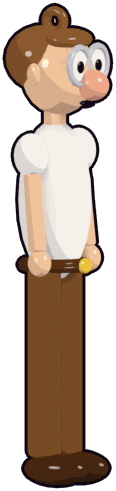
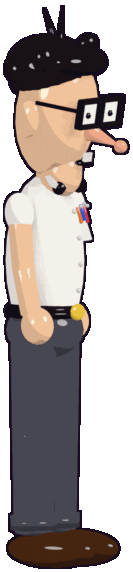
New loading screen, cinematic intro, updated hero portraits
- Loading screen: night sky, crooked villa silhouette, logo, toast chased
  by the purple tentacle, real progress bar and rotating tips.
- Intro: letterbox bars and vignette, logo title card for the prologue and
  a chapter card for the lab with typewriter text, slow camera drift in
  real-time 3D; no 3D hints during the intro.
- Rooms in real-time 3D fade in only once their scene is loaded; the
  prologue waits briefly for its panorama.
- Title screen figures and HUD portraits of Bernard and Hoagie rendered
  from the restyled rigs.

diff --git a/js/vorspann.js b/js/vorspann.js
@@ -1,0 +1,141 @@
+'use strict';
+// ============================================================
+//  Tentakel-Toast – Ladebildschirm und Kino-Vorspann (js/vorspann.js)
+//  Ladebildschirm: Nachthimmel mit Mond, die krumme Villa als Scherenschnitt mit flackernden Fenstern, das Logo,
+//  ein Toast auf der Flucht vor dem Lila Tentakel, ein echter Fortschrittsbalken (Schriften und Bilder, js/draw.js:
+//  TT_LADEN) und wechselnde Tipps.
+//  Intro: Kinobalken fahren ein, eine Titelkarte mit Logo und Schreibmaschinen-Text eröffnet die Geschichte, die
+//  Einblendungen („Fünf Jahre nach …“) erscheinen als Kino-Untertitel statt als Kasten.
+// ============================================================
+const LADE_TIPPS = [
+  'Tipp: Zieh in der Lobby am Pendel der Standuhr …',
+  'Tipp: Im Echtzeit-3D läufst du mit WASD und springst mit der Leertaste.',
+  'Tipp: Rechtsklick zeigt alle Aktionen für ein Ding.',
+  'Tipp: Gegenstände reisen per Chrono-Klo durch die Zeit.',
+  'Tipp: Taste H gibt einen Hinweis, wenn du feststeckst.',
+  'Wusstest du? Der Hamster heißt Ed. Er ist nicht zu verwechseln mit Onkel Ed.',
+];
+function ladeFortschritt() {
+  const L = typeof TT_LADEN !== 'undefined' ? TT_LADEN : null;
+  const bilder = L && L.n ? L.ok / L.n : 0.5, schrift = G.schriftOk ? 1 : Math.min(0.9, G.t / 2600);
+  return Math.max(0, Math.min(1, schrift * 0.35 + bilder * 0.65));
+}
+function villaSilhouette(c, t, x0, boden, s) {   // krumm wie in Day of the Tentacle: nichts steht gerade
+  const sil = '#160828', P2 = pts => P(c, pts.map((v, i) => i % 2 ? boden - v * s : x0 + v * s), sil, 0);
+  P2([0, 0, 6, 150, -4, 170, 120, 182, 250, 168, 262, 150, 256, 0]);   // Haupthaus, leicht verzogen
+  P2([-14, 168, 126, 236, 270, 164]);   // Dach, schief
+  P2([160, 190, 168, 300, 196, 296, 190, 186]);   // Schornstein, gekippt
+  P2([30, 170, 26, 262, 88, 270, 92, 172]);   // Turm
+  P2([18, 258, 56, 352, 100, 266]);   // Turmspitze, verbogen
+  L(c, [x0 + 56 * s, boden - 352 * s, x0 + 62 * s, boden - 372 * s], 2, sil);
+  const fenster = [[30, 60], [80, 64], [150, 58], [200, 62], [44, 118], [110, 122], [180, 116], [52, 210], [64, 230]];
+  for (const [i, [fx, fy]] of fenster.entries()) {
+    const fl = 0.65 + 0.35 * Math.sin(t * 0.004 + i * 2.3) * Math.sin(t * 0.0017 + i);
+    const w = 22 * s, h = 26 * s, x = x0 + fx * s, y = boden - fy * s - h, kipp = Math.sin(i * 1.7) * 3 * s;
+    if (!c.isPix) glowAt(c, x + w / 2, y + h / 2, 30 * s, '#ffc860', 0.18 * fl);
+    P(c, [x + kipp, y, x + w + kipp, y + 2, x + w, y + h, x, y + h - 1], `rgba(255,${200 + Math.round(30 * fl)},96,${0.75 + 0.25 * fl})`, 0);
+    L(c, [x + w / 2 + kipp / 2, y + 1, x + w / 2, y + h], 1.5, sil); L(c, [x + kipp / 2, y + h / 2, x + w + kipp / 2, y + h / 2], 1.5, sil);
+  }
+}
+function toastFigur(c, x, y, sq, rot) {
+  c.save(); c.translate(x, y); c.scale(sq, 2 - sq); c.rotate(rot);
+  S(c, '#e8b060', 3, () => { c.moveTo(-28, 26); c.lineTo(-28, -10); c.quadraticCurveTo(-34, -34, -14, -34); c.quadraticCurveTo(0, -44, 14, -34); c.quadraticCurveTo(34, -34, 28, -10); c.lineTo(28, 26); c.closePath(); });
+  R(c, -20, -20, 40, 40, '#f6dca0', 0, 6);
+  E(c, -8, -6, 5, 6, '#ffffff', 1.5); E(c, 8, -6, 5, 6, '#ffffff', 1.5); E(c, -6, -5, 2.4, 3, '#1b1020', 0); E(c, 10, -5, 2.4, 3, '#1b1020', 0);   // schaut panisch nach hinten
+  E(c, 1, 10, 5, 4, '#7a2222', 1.5);   // „AAAH!“
+  c.restore();
+}
+function tentakelFigur(c, x, y, sq, t) {
+  c.save(); c.translate(x, y); c.scale(sq, 2 - sq);
+  S(c, '#8e44c9', 3, () => { c.moveTo(-20, 0); c.quadraticCurveTo(-26, -60, -6, -86); c.quadraticCurveTo(10, -100, 20, -80); c.quadraticCurveTo(26, -40, 22, 0); c.closePath(); });
+  for (let i = 0; i < 4; i++) E(c, 14, -14 - i * 16, 4, 3.4, '#c79bec', 1.2);
+  E(c, 2, -70, 13, 7, '#5b2589', 2);   // Lippen
+  L(c, [-12, -84, 2, -78], 3.5, '#1b1020'); L(c, [8, -80, 18, -86], 3.5, '#1b1020');   // böse Brauen
+  E(c, -6, -76, 4, 4.5, '#ffffff', 1.2); E(c, 12, -79, 4, 4.5, '#ffffff', 1.2); E(c, -4, -76, 2, 2.4, '#1b1020', 0); E(c, 14, -79, 2, 2.4, '#1b1020', 0);
+  c.restore();
+}
+// Ladebildschirm (js/engine.js ruft ihn auf, solange G.screen === 'loading')
+function drawLadebild() {
+  const c = cx, t = G.t;
+  c.fillStyle = grad(c, 0, 0, 0, H, [[0, '#090320'], [0.55, '#2a0f4a'], [0.85, '#5a1e62'], [1, '#2a0f3a']]); c.fillRect(0, 0, W, H);
+  for (let i = 0; i < 60; i++) { const a = 0.35 + 0.65 * Math.abs(Math.sin(t * 0.0012 + i * 1.7)); E(c, (i * 173) % W, (i * 97) % 330, 1.3, 1.3, `rgba(255,255,255,${a})`, 0); }
+  if (!c.isPix) glowAt(c, 792, 120, 150, '#ffe8c0', 0.22);
+  E(c, 792, 120, 52, 52, '#fff0c4', 3, 0, '#d8b070');
+  for (const [x, y, r] of [[778, 104, 10], [812, 136, 8], [796, 142, 5]]) E(c, x, y, r, r * 0.8, 'rgba(226,196,140,0.55)', 0);
+  P(c, [0, H, 0, 470, 160, 446, 340, 462, 520, 440, 700, 452, 960, 432, 960, H], '#1a0a2c', 0);   // Hügel
+  villaSilhouette(c, t, 590, 470, 1.05);
+  // Logo (wenn schon geladen), sonst Schriftzug
+  if (!c.isPix && typeof LOGO_IMG !== 'undefined' && imgOk(LOGO_IMG)) {
+    const w = 520, h = w * LOGO_IMG.naturalHeight / LOGO_IMG.naturalWidth, k = Math.min(1, t / 600), sc = 0.8 + 0.2 * (1 - Math.pow(1 - k, 3)) + Math.sin(t * 0.0021) * 0.01;
+    c.save(); c.globalAlpha = k; c.translate(W / 2 - 110, 110); c.scale(sc, sc); c.drawImage(LOGO_IMG, -w / 2, -h / 2, w, h); c.restore();
+  } else txt(c, 'TENTAKEL-TOAST', W / 2 - 110, 120, '400 52px "Titan One", sans-serif', '#ffd23a', 'center', 8, '#1b1020');
+  // Verfolgungsjagd: der Toast flieht, der Lila Tentakel hüpft hinterher (Schleife über den Bildschirm)
+  const per = 4200, q = (t % per) / per, bx = -80 + q * (W + 240), boden = 520;
+  const hopT = Math.abs(Math.sin(t * 0.009)), hopL = Math.abs(Math.sin(t * 0.0075 + 0.8));
+  E(c, bx, boden + 4, 30 - hopT * 10, 6, 'rgba(0,0,0,0.35)', 0);
+  toastFigur(c, bx, boden - 26 - hopT * 34, 1 + (1 - hopT) * 0.08, -0.15 + Math.sin(t * 0.02) * 0.1);
+  E(c, bx - 150, boden + 4, 28 - hopL * 8, 6, 'rgba(0,0,0,0.35)', 0);
+  tentakelFigur(c, bx - 150, boden - hopL * 40, 1 + (1 - hopL) * 0.1, t);
+  if (q > 0.1 && q < 0.9) txt(c, Math.floor(t / 900) % 2 ? 'AAAH!' : 'HILFE!', bx + 4, boden - 96 - hopT * 34, '400 18px "Titan One", sans-serif', '#ffffff', 'center', 4, '#1b1020');
+  // Fortschrittsbalken und Tipp
+  const p = ladeFortschritt(), bw = 360, bxx = W / 2 - bw / 2, by = 556;
+  R(c, bxx - 4, by - 4, bw + 8, 26, 'rgba(10,4,20,0.7)', 3, 13, '#f1d6a0');
+  if (p > 0.01) R(c, bxx, by, Math.max(18, bw * p), 18, grad(c, bxx, 0, bxx + bw, 0, [[0, '#ffd23a'], [1, '#ff8a2a']]), 0, 9);
+  txt(c, `Lade … ${Math.round(p * 100)} %`, W / 2, by + 14, '800 13px "Baloo 2", sans-serif', '#1b1020', 'center');
+  const tip = LADE_TIPPS[Math.floor(t / 2600) % LADE_TIPPS.length];
+  txt(c, tip, W / 2, by - 16, '700 15px "Baloo 2", sans-serif', 'rgba(255,240,200,0.9)', 'center', 3, '#1b1020');
+}
+
+// ---------- Kino-Vorspann fürs Intro ----------
+let kinoK = 0;
+function drawKino() {
+  const ziel = G.inIntro && G.screen === 'game' ? 1 : 0;
+  kinoK += (ziel - kinoK) * 0.08;
+  if (kinoK < 0.01) return;
+  const h = 46 * kinoK, VB = typeof VH !== 'undefined' ? VH : SH;   // VB: Höhe der Szene (moderne Ansicht: ganzer Bildschirm)
+  cx.save(); cx.fillStyle = '#05020a'; cx.fillRect(0, 0, W, h); cx.fillRect(0, VB - h, W, h);
+  if (!cx.isPix) {   // weiche Vignette wie im Kino
+    const vg = cx.createRadialGradient(W / 2, VB / 2, VB * 0.35, W / 2, VB / 2, W * 0.62);
+    vg.addColorStop(0, 'rgba(5,2,10,0)'); vg.addColorStop(1, `rgba(5,2,10,${0.45 * kinoK})`);
+    cx.fillStyle = vg; cx.fillRect(0, 0, W, VB);
+  }
+  cx.restore();
+  const k = G.titelKarte; if (!k) return;
+  const e = (G.t - k.t0) / k.dauer;
+  if (e < 0 || e > 1) return;
+  const ein = Math.min(1, e * 5), aus = Math.min(1, (1 - e) * 6), a = Math.min(ein, aus);
+  cx.save(); cx.globalAlpha = a * (k.logo ? 0.82 : 0.6); cx.fillStyle = '#0a0414'; cx.fillRect(0, h, W, VB - 2 * h); cx.restore();
+  cx.save(); cx.globalAlpha = a;
+  const my = VB / 2;
+  if (!k.logo) {   // Kapitelkarte: kleine Überschrift, Zierlinien, Text per Schreibmaschine
+    const s = T(k.text), n = Math.floor(Math.max(0, e - 0.1) / 0.5 * s.length);
+    txt(cx, k.kapitel || '', W / 2, my - 34, '800 18px "Baloo 2", sans-serif', '#ffd23a', 'center', 3, '#1b1020');
+    L(cx, [W / 2 - 240, my - 18, W / 2 + 240, my - 18], 2, 'rgba(255,210,58,0.55)');
+    txt(cx, s.slice(0, n), W / 2, my + 22, '400 34px "Titan One", sans-serif', '#ffe8b0', 'center', 6, '#1b1020');
+    L(cx, [W / 2 - 240, my + 46, W / 2 + 240, my + 46], 2, 'rgba(255,210,58,0.55)');
+    cx.restore(); return;
+  }
+  if (!cx.isPix && typeof LOGO_IMG !== 'undefined' && imgOk(LOGO_IMG)) {
+    const w = 560, lh = w * LOGO_IMG.naturalHeight / LOGO_IMG.naturalWidth, z = 0.7 + 0.3 * (1 - Math.pow(1 - ein, 3)) + e * 0.06;
+    cx.save(); cx.translate(W / 2, my - 40); cx.scale(z, z); cx.rotate(Math.sin(G.t * 0.002) * 0.015); cx.drawImage(LOGO_IMG, -w / 2, -lh / 2, w, lh); cx.restore();
+  } else txt(cx, 'TENTAKEL-TOAST', W / 2, my - 30, '400 60px "Titan One", sans-serif', '#ffd23a', 'center', 8, '#1b1020');
+  const s = T(k.text), n = Math.floor(Math.max(0, e - 0.18) / 0.45 * s.length);   // Schreibmaschine
+  txt(cx, s.slice(0, n), W / 2, my + 92, '400 26px "Titan One", sans-serif', '#ffe8b0', 'center', 5, '#1b1020');
+  cx.restore();
+}
+{
+  const signOrig = drawSign;   // Kinobalken unter die Sprechblasen legen: drawSign kommt direkt vor Bark und Sprechblasen
+  drawSign = function () { signOrig(); drawKino(); };
+  const capOrig = drawCaption;   // im Intro: Kino-Untertitel statt Kasten
+  drawCaption = function (y) {
+    if (!G.caption || !G.inIntro) return capOrig(y);
+    if (G._capText !== G.caption) { G._capText = G.caption; G._capT = G.t; }
+    const s = T(G.caption), e = Math.min(1, (G.t - G._capT) / 450);
+    cx.save(); cx.globalAlpha = e;
+    const yy = (typeof VH !== 'undefined' ? VH : SH) - 46 * kinoK - 18;
+    L(cx, [W / 2 - 220, yy - 34, W / 2 - 40, yy - 34], 2, 'rgba(255,210,58,0.6)'); L(cx, [W / 2 + 40, yy - 34, W / 2 + 220, yy - 34], 2, 'rgba(255,210,58,0.6)');
+    E(cx, W / 2, yy - 34, 4, 4, '#ffd23a', 0);
+    txt(cx, s, W / 2, yy, '400 24px "Titan One", sans-serif', '#ffe8b0', 'center', 5, '#1b1020');
+    cx.restore();
+  };
+}

diff --git a/index.html b/index.html
@@ -60,26 +60,27 @@
 </div>
 <noscript>Tentakel-Toast braucht JavaScript. Bitte aktiviere es, um zu spielen.</noscript>
 <script type="importmap">{"imports":{"three":"./vendor/three/three.module.js","three/addons/":"./vendor/three/addons/"}}</script>
-<script>var TT_VER = '13e';   // bei jedem Update erhöhen: alle Skripte, Bilder und 3D-Modelle laden dann frisch statt aus dem Browser-Cache</script>
-<script src="js/draw.js?v=13e"></script>
-<script src="js/figuren3d.js?v=13e"></script>
-<script src="js/pixel.js?v=13e"></script>
-<script src="js/audio.js?v=13e"></script>
-<script src="js/lang.js?v=13e"></script>
-<script src="js/rooms.js?v=13e"></script>
-<script src="js/engine.js?v=13e"></script>
-<script src="js/story.js?v=13e"></script>
-<script src="js/gaeste.js?v=13e"></script>
-<script src="js/gaeste2.js?v=13e"></script>
-<script src="js/zak.js?v=13e"></script>
-<script src="js/villa.js?v=13e"></script>
-<script src="js/altbau-daten.js?v=13e"></script>
-<script src="js/altbau.js?v=13e"></script>
-<script src="js/uhrwerk.js?v=13e"></script>
-<script src="js/kostuem.js?v=13e"></script>
-<script src="js/cameos.js?v=13e"></script>
-<script src="js/mimik.js?v=13e"></script>
-<script src="js/prolog.js?v=13e"></script>
-<script src="js/echt3d.js?v=13e"></script>
+<script>var TT_VER = '13j';   // bei jedem Update erhöhen: alle Skripte, Bilder und 3D-Modelle laden dann frisch statt aus dem Browser-Cache</script>
+<script src="js/draw.js?v=13j"></script>
+<script src="js/figuren3d.js?v=13j"></script>
+<script src="js/pixel.js?v=13j"></script>
+<script src="js/audio.js?v=13j"></script>
+<script src="js/lang.js?v=13j"></script>
+<script src="js/rooms.js?v=13j"></script>
+<script src="js/engine.js?v=13j"></script>
+<script src="js/story.js?v=13j"></script>
+<script src="js/gaeste.js?v=13j"></script>
+<script src="js/gaeste2.js?v=13j"></script>
+<script src="js/zak.js?v=13j"></script>
+<script src="js/villa.js?v=13j"></script>
+<script src="js/altbau-daten.js?v=13j"></script>
+<script src="js/altbau.js?v=13j"></script>
+<script src="js/uhrwerk.js?v=13j"></script>
+<script src="js/vorspann.js?v=13j"></script>
+<script src="js/kostuem.js?v=13j"></script>
+<script src="js/cameos.js?v=13j"></script>
+<script src="js/mimik.js?v=13j"></script>
+<script src="js/prolog.js?v=13j"></script>
+<script src="js/echt3d.js?v=13j"></script>
 </body>
 </html>

diff --git a/js/echt3d.js b/js/echt3d.js
@@ -55,6 +55,24 @@ const ECHT3D_TEILE = {
     return { rot, sx, sy };
   },
 };
+// Raumwechsel im Echtzeit-3D: erst einblenden, wenn die 3D-Szene geladen ist (höchstens 6 s) – kein dunkles Bild mit Figuren
+function echt3dWarten(id) {
+  if (!G.settings.echt3d || G.settings.retro || !ECHT3D.rooms[id] || ECHT3D.failed) return Promise.resolve();
+  echt3dLoad();
+  const t0 = performance.now();
+  return new Promise(fertig => {
+    const pruefen = () => {
+      const m = ECHT3D.mod;
+      if (ECHT3D.failed || performance.now() - t0 > 6000 || (m && m.ready && (m.hasRoom(id) || m.failed(id)))) return fertig();
+      setTimeout(pruefen, 60);
+    };
+    pruefen();
+  });
+}
+{
+  const warmOhne3D = warmRoom;
+  warmRoom = async function (roomId) { await warmOhne3D(roomId); await echt3dWarten(roomId); };
+}
 function echt3dEiDa(id) { const e = typeof EGGS !== 'undefined' && EGGS[id]; return !!e && (!e.when || e.when()); }
 // Gezeichnete Überlagerungen, die im Echtzeit-3D ein echtes Modell haben, dort nicht mehr malen (Klickflächen bleiben)
 function echt3dHatModell(raum, key) { return !!(ECHT3D.mod && ECHT3D.mod.hatRequisit && echt3dOn(ROOMS[raum]) && ECHT3D.mod.hatRequisit(raum, key)); }
@@ -414,6 +432,7 @@ function drawEcht3dParkour() {
   setInterval(() => {
     if (G.screen !== 'game' || !G.state) { tasten.clear(); letzterRaum = null; echt3dVirtualStick = { x: 0, y: 0, aktiv: false }; return; }
     const raum = viewRoomId(), drei = aktiv();
+    if (G.inIntro) return;   // im Vorspann keine Hinweise und keine Steuerung
     if (drei && raum !== letzterRaum) {
       if (KURS[raum]) note(KURS[raum]);
       else if (!hinweisDirekt) { hinweisDirekt = true; note('Echtzeit-3D: WASD oder linker Stick laufen, Leertaste/A springt, E benutzt das Nächste. Ziehen dreht die Kamera um dich.'); }

diff --git a/js/engine.js b/js/engine.js
@@ -4040,7 +4040,8 @@ function drawScreen() {
   else if (G.screen === 'toaster') { drawToaster(); if (!cx.isPix) drawBloom(0.2, H); }
   else if (G.screen === 'rock') { drawRock(); if (!cx.isPix) drawBloom(0.25, H); }
   else if (G.screen === 'game') { if (modernUI()) { drawSceneModern(); if (!G.photoMode) drawHUD(); } else { drawScene(); drawUI(); } if (!G.photoMode) drawFly(); if (G.menu) drawMenu(); }
-  else {   // Ladebildschirm: hüpfender Toast mit Tentakel-Schatten
+  else if (typeof drawLadebild === 'function') drawLadebild();   // Ladebildschirm (js/vorspann.js)
+  else {   // Ladebildschirm, solange js/vorspann.js noch nicht da ist: hüpfender Toast
     cx.fillStyle = grad(cx, 0, 0, 0, H, [[0, '#0c0420'], [1, '#2a0f4a']]); cx.fillRect(0, 0, W, H);
     const t = G.t, y = H / 2 - 20 - Math.abs(Math.sin(t * 0.006)) * 26, sq = 1 + Math.max(0, Math.cos(t * 0.012)) * 0.06;
     E(cx, W / 2, H / 2 + 34, 34 - Math.abs(Math.sin(t * 0.006)) * 10, 7, 'rgba(0,0,0,0.35)', 0);
@@ -4110,6 +4111,10 @@ async function boot() {
       new Promise(r => setTimeout(r, 3000)),
     ]);
   } catch (e) { /* Fallback-Schrift */ }
+  G.schriftOk = true;
+  // Titelbild-Grafiken abwarten (höchstens 4 s), und den Ladebildschirm mindestens kurz zeigen
+  await Promise.race([Promise.all([LOGO_IMG, ...Object.values(TENT_IMG)].map(im => imgOk(im) ? 0 : new Promise(r => { im.addEventListener('load', r); im.addEventListener('error', r); }))), new Promise(r => setTimeout(r, 4000))]);
+  const seitStart = performance.now(); if (seitStart < 1600) await new Promise(r => setTimeout(r, 1600 - seitStart));
   for (const k in bgCache) delete bgCache[k];
   loadSettings(); loadAch();
   G.saved = loadSave(); G.hasSaves = anySave();

diff --git a/js/prolog.js b/js/prolog.js
@@ -80,17 +80,19 @@ function drawProlog(c, t) {
     drawTentSprite(c, TENT_IMG.lila, lx, ly, th * 1.18 * pulse * a + th * (1 - a), true);
   } else drawTentSprite(c, TENT_IMG.green, lx, ly, th, true, 'hue-rotate(165deg) saturate(1.15)', drink * 0.55);
   c.restore();
-  // Kino-Balken
-  c.fillStyle = '#08030e'; c.fillRect(0, 0, W, 24); c.fillRect(0, SH - 24, W, 24);
+  // Kino-Balken zeichnet jetzt js/vorspann.js (drawKino) für den ganzen Vorspann
 }
 async function PROLOG() {
-  if (G.fast || G.settings.retro || !G.state || !imgOk(PROLOG_IMG)) return;
+  if (G.fast || G.settings.retro || !G.state) return;
+  if (!imgOk(PROLOG_IMG)) await new Promise(r => { const t0 = performance.now(), p = () => imgOk(PROLOG_IMG) || performance.now() - t0 > 4000 ? r() : setTimeout(p, 80); p(); });   // Panorama noch unterwegs: kurz warten
+  if (!imgOk(PROLOG_IMG)) return;
   G.inIntro = true;
   G.prolog = { t0: G.t + 400, panMs: 10000, sludgeT: 0, drinkT: 0, armsT: 0, zoomT: 0 };
   const keep = G.viewRoom; G.viewRoom = 'prolog'; markVisit('prolog'); music();
   try {
+    G.titelKarte = { t0: G.t, dauer: 4400, text: 'Wie alles begann ...', logo: true };   // Kino-Titelkarte mit Logo (js/vorspann.js)
     await fadeTo(0, 900);
-    G.caption = 'Wie alles begann ...'; await wait(2600); G.caption = null;
+    await wait(3500); G.titelKarte = null;
     await wait(Math.max(0, G.prolog.t0 + G.prolog.panMs - G.t));
     G.prolog.zoomT = G.t; await wait(2700);
     Sound.play('lab'); Sound.sfx('pour'); G.prolog.sludgeT = G.t; await wait(1500);

diff --git a/js/draw.js b/js/draw.js
@@ -1085,9 +1085,14 @@ function drawStatue(c) {
 // ---------- Portraits (Köpfe in den Charakter-Buttons) ----------
 const PORTRAIT = { bernard: [8, -186, 0.86], hoagie: [8, -154, 0.92], laverne: [8, -176, 0.82] };
 // Lädt ein gerendertes Bild; bricht das Laden ab (z. B. weil viele Bilder gleichzeitig kommen), wird es noch zweimal versucht
+const TT_LADEN = { n: 0, ok: 0 };   // Ladefortschritt für den Ladebildschirm (js/vorspann.js)
 function loadImg(src, tries = 3) {
   const im = new Image();
-  im.onerror = () => { if (--tries > 0) setTimeout(() => { im.src = `${src}?r=${tries}`; }, 700); };
+  TT_LADEN.n++;
+  let gezaehlt = false;
+  const fertig = () => { if (!gezaehlt) { gezaehlt = true; TT_LADEN.ok++; } };
+  im.addEventListener('load', fertig);
+  im.onerror = () => { if (--tries > 0) setTimeout(() => { im.src = `${src}?r=${tries}`; }, 700); else fertig(); };
   im.src = typeof TT_VER !== 'undefined' && !/^(data:|blob:|https?:)/.test(src) ? `${src}${src.includes('?') ? '&' : '?'}v=${TT_VER}` : src;   // Versions-Anhang: nach Updates kein altes Bild aus dem Cache
   return im;
 }

diff --git a/js/echt3d-szene.js b/js/echt3d-szene.js
@@ -438,6 +438,8 @@ function kameraFahren(R, t, actors) {
   for (const a of actors) { const m = a.mimik; if (m && m.kind === 'schreck') schreck = Math.max(schreck, 1 - Math.min(1, Math.max(0, (t - m.t0) / 700))); }
   if (schreck > 0) cam.position.addScaledVector(_fw, -0.09 * schreck).addScaledVector(_rt, Math.sin(t * 0.09) * 0.02 * schreck);
   cam.position.addScaledVector(_rt, Math.sin(t * 0.00019 + R.phase) * 0.011).addScaledVector(_up, Math.sin(t * 0.00013 + R.phase * 2) * 0.008);   // Parallax-Schwung im Stand
+  if (typeof G !== 'undefined' && G.inIntro) cam.position.addScaledVector(_rt, Math.sin(t * 0.00021) * 0.3).addScaledVector(_up, 0.05 + Math.sin(t * 0.00016) * 0.05);   // Vorspann: langsame Kinofahrt
+
   // freie Kamera: 360° um den Raum, dazu neigen und zoomen – um einen Zielpunkt in der Raummitte
   const o = R.orbit;
   if (o && (o.zurueck || Math.abs(o.yaw) > 1e-4 || Math.abs(o.pitch) > 1e-4 || Math.abs(o.dist) > 1e-4)) {

diff --git a/js/story.js b/js/story.js
@@ -1051,8 +1051,10 @@ const ARRIVALS = {
 async function INTRO() {
   G.inIntro = true;
   fl().kloH = fl().kloL = 1;   // im Labor stehen drei Chrono-Klos (js/kostuem.js)
+  await warmRoom(me().room);   // im Echtzeit-3D erst das Labor laden, dann einblenden
+  G.titelKarte = { t0: G.t, dauer: 4600, text: 'Fünf Jahre nach dem großen Tentakel-Tag ...', kapitel: 'Kapitel 1' };   // Kapitelkarte (js/vorspann.js)
   await fadeTo(0, 700);
-  G.caption = 'Fünf Jahre nach dem großen Tentakel-Tag ...'; await wait(2800); G.caption = null;
+  await wait(3900); G.titelKarte = null;
   await say('drfred', 'ENDLICH! Mein Gut-O-Mat ist fertig!');
   await say('drfred', 'Ein Toast daraus, und selbst der bösartigste Schurke wird lieb und nett!');
   await say('bernard', 'Es ist ein... Toaster, Dr. Fred.');

diff --git a/art/blender/helden_rig_bilder.py b/art/blender/helden_rig_bilder.py
@@ -1,0 +1,43 @@
+# Titelbild-Figuren und HUD-Porträts aus den umgestalteten Rigs (bernard_schick.py, hoagie_schick.py) rendern
+# (in Blender, vorher REPO und optional WHO setzen):
+#   REPO = r'C:/.../Tentakel-Toast'; WHO = ['bernard', 'hoagie']; exec(open(REPO + '/art/blender/helden_rig_bilder.py').read())
+# Ganzfigur = das Ruhebild aus figur_frames.py (art/render/<name>/idle.png), Porträt = Kopf mit geschlossenem und
+# offenem Mund über die RigCam. Schreibt nach art/render/helden/ – danach im Repo-Ordner:  python art/blender/helden_post.py
+import bpy, math, os, shutil
+
+WHO = globals().get('WHO') or ['bernard', 'hoagie']
+OUT = REPO + '/art/render/helden/'
+os.makedirs(OUT, exist_ok=True)
+# Szene, Kopfmitte (m), Bildausschnitt (m), Mund, Wurzel (fürs Porträt fast frontal zur Kamera gedreht)
+CFG = {'bernard': ('Rig3D', 2.02, 0.86, 'RB_Mund', 'BRig'), 'hoagie': ('Rig3D_Hoagie', 1.5, 0.78, 'RH_Mund', 'HRig'), 'laverne': ('Rig3D_Laverne', 1.66, 0.72, 'RL_Mund', 'LRig')}
+win = bpy.context.window
+prev = win.scene
+for name in WHO:
+    sn, kz, sc_m, mund, wurzel = CFG[name]
+    rig = bpy.data.objects[wurzel]
+    yaw0 = rig.rotation_euler[2]
+    SC = bpy.data.scenes[sn]
+    win.scene = SC
+    cam = SC.camera
+    alt = (cam.location.copy(), cam.data.ortho_scale, SC.render.resolution_x, SC.render.resolution_y, SC.render.filepath)
+    m = bpy.data.objects[mund]
+    ms = m.scale.copy()
+    try:
+        rig.rotation_euler[2] = -1.32
+        neig = math.pi / 2 - cam.rotation_euler[0]   # die RigCam blickt leicht von oben: Bildmitte liegt tiefer als die Kamera
+        cam.location = (alt[0].x, alt[0].y, kz + abs(alt[0].y) * math.tan(neig))
+        cam.data.ortho_scale = sc_m
+        SC.render.resolution_x = SC.render.resolution_y = 256
+        for k, f in ((0, 1.0), (1, 3.4)):   # Mund zu, Mund auf
+            m.scale = (ms.x * (1 + 0.25 * k), ms.y, ms.z * f)
+            SC.render.filepath = OUT + f'portrait_{name}_{k}.png'
+            bpy.ops.render.render(write_still=True, scene=SC.name)
+    finally:
+        m.scale = ms
+        rig.rotation_euler[2] = yaw0
+        cam.location, cam.data.ortho_scale, SC.render.resolution_x, SC.render.resolution_y, SC.render.filepath = alt
+    idle = REPO + f'/art/render/{name}/idle.png'
+    if os.path.exists(idle):
+        shutil.copyfile(idle, OUT + f'held_{name}.png')
+win.scene = prev
+print('Heldenbilder aus den Rigs:', WHO)

diff --git a/README.md b/README.md
@@ -96,6 +96,7 @@ Mit **F1**, **P**, dem Knopf „Pixel“ oder dem rechten Stick am Controller sc
 - **Der Gang hinter der Standuhr (Uhrwerk, mit einem Hauch Castlevania):** Zieh oder drück in der Lobby am Pendel der Standuhr – die ganze Uhr schwingt wie eine Tür zur Seite. Dahinter liegt ein Uhrturm voller Messing-Getriebe: Spitzbogenfenster mit Buntglas und Vollmond, Kandelaber, blutrote Banner mit Toaster-Wappen, Ketten, kreisende Fledermäuse, ein Riesenzifferblatt, dessen Zeiger rückwärts laufen. In der Mitte klafft der Abgrund des Getriebes. Im vorgerenderten Bild führt ein Notsteg hinüber; im Echtzeit-3D ist er weg: Dort springt man über ein liegendes Zahnrad, einen pumpenden Hubkolben und ein Kupferzahnrad, während das Riesenpendel quer durch den Sprungweg schwingt – wer getroffen wird, fliegt wirbelnd davon. Ein Chrono-Kristall schwebt über dem Kupferzahnrad und wird im Sprung eingesammelt. Rechts geht es über eine Steintreppe in den Keller, vom Keller durch einen Mauerdurchbruch zurück; wer so in den Keller kommt, kann die Falltür zur Lobby von unten aufdrücken (js/uhrwerk.js, Raum: art/blender/raum_build.py, build_uhrwerk).
 - **Echtes 3D zum Selbersteuern (wie in Psychonauts 2):** In jedem Echtzeit-3D-Raum läuft man direkt mit WASD/Pfeilen, dem linken Stick oder dem Touch-Steuerkreis, springt mit Leertaste/A und benutzt mit E (oder A über einem Hotspot) das Nächstgelegene; Klicken funktioniert weiter. Beim Drehen kreist die Kamera um die gesteuerte Figur und rückt näher heran, je weiter man dreht. Sprünge haben Tom-&-Jerry-Timing: erst eine kurze Hocke, dann Strecken im Steigen, Windmühlen-Arme im freien Fall und ein federnder Platsch bei der Landung; beim Losflitzen wirbeln die Beine auf der Stelle, dann zischt die Figur mit Speed-Linien und Staubwolke los. Wer abstürzt, taucht am letzten Brett mit Spiralaugen, Sternchen und kreisenden Vögelchen wieder auf. In der Lobby steht im Echtzeit-3D jetzt eine echte Treppe ins Obergeschoss hinter dem Empfang, und die Sprungpassagen im Dachboden und in der Treppenlücke des Obergeschosses funktionieren endlich (die Tiefenachse der Plattformen war gespiegelt).
 - **Krumme Villa wie in Day of the Tentacle:** Im Echtzeit-3D werden alle Räume der Villa (Lobby, Obergeschoss, Dachboden, Keller, Uhrwerk, Labor, Konferenzsaal und ihre Gegenstücke 1776 und in der Zukunft) beim Laden einmal verbogen: Der Boden bleibt topfeben, alles darüber kippt mit der Höhe nach außen und eiert in sanften Wellen – Wände hängen schief, Türen werden zu Trapezen, Standuhr und Gemälde lehnen sich zur Seite (js/echt3d-szene.js, KRUMM). Die Stärke ist so gewählt, dass die Klickflächen weiter auf ihren Gegenständen liegen.
+- **Ladebildschirm und Kino-Vorspann:** Beim Laden zeigt das Spiel einen Nachthimmel mit Mond, die krumme Villa als Scherenschnitt mit flackernden Fenstern, das Logo, einen Toast auf der Flucht vor dem Lila Tentakel, einen echten Fortschrittsbalken und wechselnde Tipps. Der Vorspann läuft mit Kinobalken und Vignette: eine Titelkarte mit Logo und Schreibmaschinen-Text eröffnet den Prolog, eine Kapitelkarte den Sprung ins Labor; im Echtzeit-3D gleitet die Kamera dabei langsam durchs Bild. Räume blenden im Echtzeit-3D erst ein, wenn ihre Szene geladen ist (js/vorspann.js). Titelbild und Porträts zeigen Bernard und Hoagie im neuen Look (art/blender/helden_rig_bilder.py).
 - **Labor ganz in 3D:** Im Echtzeit-3D stehen jetzt echte Modelle statt gezeichneter Überlagerungen im Labor: Onkel Eds Hamsterkäfig mit Namensschild, Trinkflasche und Laufrad (dreht schneller, wenn Ed einen Krümel bekommt), das TATORT-Absperrband als X vor dem Hebel mit flatterndem Ende, Cousin Ted im goldenen Sarkophag (die Augen wandern), der Lichtschwert-Prototyp mit leuchtender Klinge und Clawd, der über dem Gut-O-Mat schwebt (art/blender/requisiten_labor.py, js/echt3d-szene.js: REQUISITEN). Dr. Fred läuft und gestikuliert als 3D-Figur mit Gelenken, Sam und Max stehen als 3D-Modelle im Raum (werden erst beim ersten Auftritt geladen).
 - **Hoagie wie im Original:** blaue Baseballkappe verkehrt herum, lange schwarze Haare, schwarzes Metal-Shirt mit Totenkopf und Flammen, weite grau-blaue Hose und weiße Turnschuhe (art/blender/hoagie_schick.py; Echtzeit-Modell und alle Sprites inklusive der Fecht-Posen neu gerendert).
 - **Bernard wie im Original:** Das 3D-Modell ist dem Bernard von 1993 nachempfunden: langer Eierkopf mit spitzem Kinn und langer Nase, schwarzes Strubbelhaar mit zwei Antennen-Strähnen, dicke schwarze Kastenbrille, dünner Hals, schwarze Fliege, Einstecktasche mit Stiften, hoch gezogene dunkelgraue Hose, weiße Socken – die typische Nerd-Haltung mit eingeknickten Knien und vorgerecktem Kopf, schmale Schultern, große Hände und Schuhe, weite Hosen mit Umschlag und Hasenzähne; im Echtzeit-3D geht er mit angewinkelten Armen und schiebt im Stand nervös die Brille hoch (art/blender/bernard_schick.py; Sprites und Echtzeit-Modell neu gerendert).
